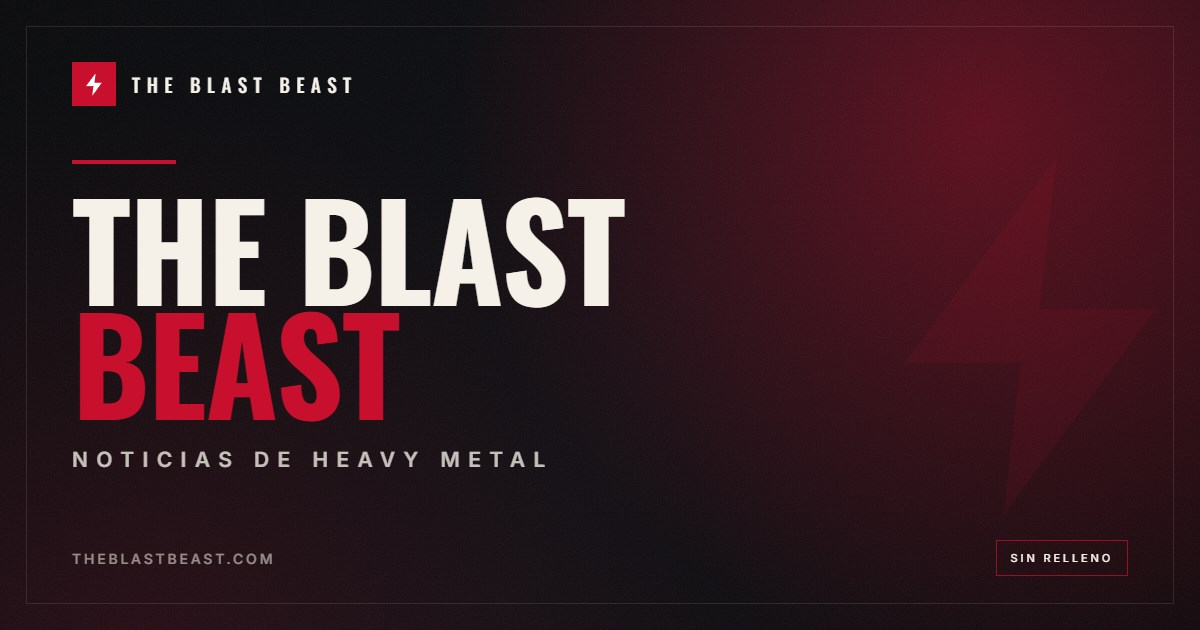
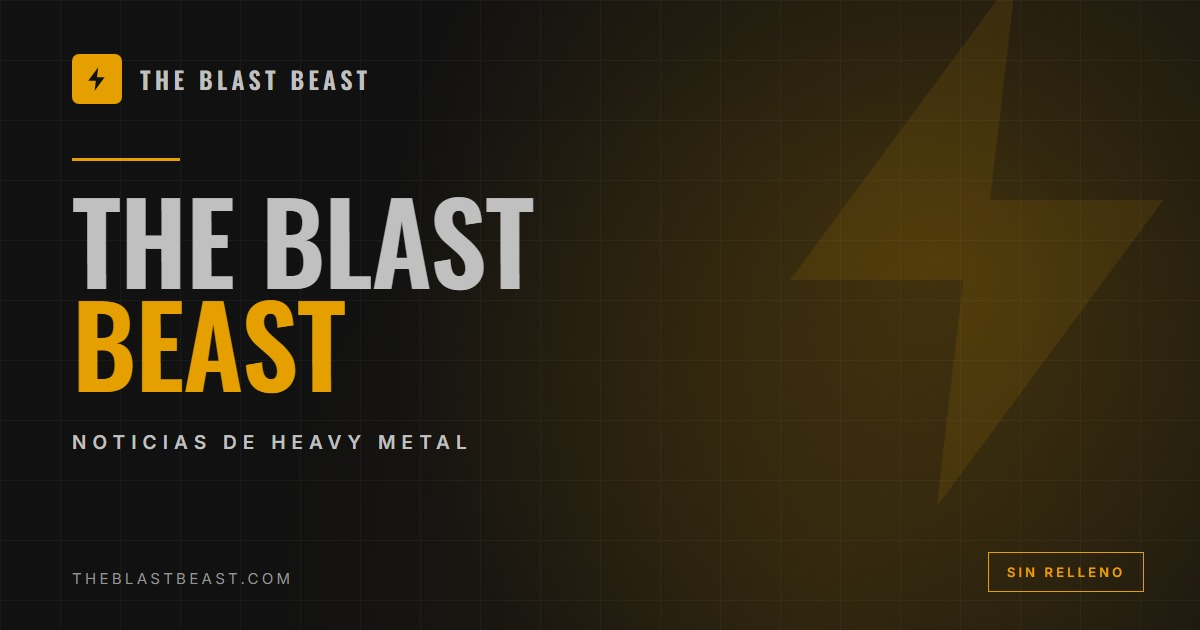
feat(theme): aplica la paleta industrial

diff --git a/src/app/features/radar/radar-page.html b/src/app/features/radar/radar-page.html
@@ -2,11 +2,11 @@
   <section class="relative overflow-hidden border-b border-line">
     <div
       aria-hidden="true"
-      class="pointer-events-none absolute -right-40 -top-40 size-[34rem] rounded-full bg-[radial-gradient(circle_at_center,rgba(200,16,46,0.18),transparent_68%)]"
+      class="pointer-events-none absolute -right-40 -top-40 size-[34rem] rounded-full bg-[radial-gradient(circle_at_center,rgba(229,160,0,0.20),transparent_68%)]"
     ></div>
     <div
       aria-hidden="true"
-      class="pointer-events-none absolute inset-0 opacity-[0.045] [background-image:repeating-linear-gradient(0deg,transparent,transparent_3px,#f4f2ee_4px)]"
+      class="pointer-events-none absolute inset-0 opacity-[0.045] [background-image:repeating-linear-gradient(0deg,transparent,transparent_3px,#c0c0c0_4px)]"
     ></div>
 
     <div class="shell relative py-10 sm:py-14">
@@ -133,7 +133,7 @@
                   (click)="filterGenre(genre.value)"
                 >
                   {{ genre.label }}
-                  <span class="text-muted/70">{{ genre.count }}</span>
+                  <span class="text-muted">{{ genre.count }}</span>
                 </button>
               }
             </div>
@@ -174,7 +174,7 @@
                   (click)="selectType(type.value)"
                 >
                   {{ type.label }}
-                  <span class="text-muted/70">{{ type.count }}</span>
+                  <span class="text-muted">{{ type.count }}</span>
                 </button>
               }
             </div>
@@ -190,7 +190,7 @@
       >
         <div
           aria-hidden="true"
-          class="pointer-events-none absolute -right-24 -top-24 size-64 rounded-full bg-[radial-gradient(circle_at_center,rgba(200,16,46,0.22),transparent_70%)]"
+          class="pointer-events-none absolute -right-24 -top-24 size-64 rounded-full bg-[radial-gradient(circle_at_center,rgba(229,160,0,0.24),transparent_70%)]"
         ></div>
 
         <div class="relative flex flex-col gap-6 sm:flex-row sm:items-start">
@@ -214,7 +214,7 @@
           <div class="min-w-0 flex-1">
             <div class="flex flex-wrap items-center gap-2">
               <span
-                class="rounded-full bg-blood px-2.5 py-1 font-mono text-[9px] uppercase tracking-[0.16em] text-white"
+                class="rounded-full bg-blood px-2.5 py-1 font-mono text-[9px] uppercase tracking-[0.16em] text-ink"
               >
                 Destacado
               </span>
@@ -300,7 +300,7 @@
                 </span>
                 @if (release.genre) {
                   <span
-                    class="font-mono text-[9px] uppercase tracking-[0.14em] text-muted/80"
+                    class="font-mono text-[9px] uppercase tracking-[0.14em] text-muted"
                   >
                     {{ release.genre }}
                   </span>
@@ -333,7 +333,7 @@
 
               @if (release.label) {
                 <p
-                  class="mt-2 font-mono text-[9px] uppercase tracking-[0.14em] text-muted/80"
+                  class="mt-2 font-mono text-[9px] uppercase tracking-[0.14em] text-muted"
                 >
                   {{ release.label }}
                 </p>

diff --git a/src/app/features/not-found/not-found-page.html b/src/app/features/not-found/not-found-page.html
@@ -2,11 +2,11 @@
   <section class="relative overflow-hidden border-b border-line">
     <div
       aria-hidden="true"
-      class="pointer-events-none absolute -left-40 top-1/2 size-[32rem] -translate-y-1/2 rounded-full bg-[radial-gradient(circle_at_center,rgba(200,16,46,0.14),transparent_70%)]"
+      class="pointer-events-none absolute -left-40 top-1/2 size-[32rem] -translate-y-1/2 rounded-full bg-[radial-gradient(circle_at_center,rgba(229,160,0,0.16),transparent_70%)]"
     ></div>
     <div
       aria-hidden="true"
-      class="pointer-events-none absolute inset-0 opacity-[0.04] [background-image:linear-gradient(#f4f2ee_1px,transparent_1px),linear-gradient(90deg,#f4f2ee_1px,transparent_1px)] [background-size:48px_48px]"
+      class="pointer-events-none absolute inset-0 opacity-[0.04] [background-image:linear-gradient(#c0c0c0_1px,transparent_1px),linear-gradient(90deg,#c0c0c0_1px,transparent_1px)] [background-size:48px_48px]"
     ></div>
 
     <div
@@ -53,7 +53,7 @@
       <div class="card relative overflow-hidden !p-6 sm:!p-8">
         <div
           aria-hidden="true"
-          class="pointer-events-none absolute -right-16 -top-16 size-48 rounded-full bg-[radial-gradient(circle_at_center,rgba(200,16,46,0.2),transparent_70%)]"
+          class="pointer-events-none absolute -right-16 -top-16 size-48 rounded-full bg-[radial-gradient(circle_at_center,rgba(229,160,0,0.22),transparent_70%)]"
         ></div>
 
         <div class="relative">
@@ -83,7 +83,7 @@
             />
             <button
               type="submit"
-              class="grid size-11 shrink-0 place-items-center rounded-md bg-blood text-white transition hover:bg-blood-soft"
+              class="grid size-11 shrink-0 place-items-center rounded-md bg-blood text-ink transition hover:brightness-110"
               aria-label="Buscar"
             >
               <svg

diff --git a/src/styles.css b/src/styles.css
@@ -55,15 +55,21 @@
     U+2193, U+2212, U+2215, U+FEFF, U+FFFD;
 }
 
+/*
+ * Paleta industrial.
+ * El texto secundario usa una mezcla 50/50 de medium y silver (#949494)
+ * para mantener el contraste AA tanto sobre el fondo como sobre las
+ * superficies grises.
+ */
 @theme {
-  --color-ink: #07080a;
-  --color-surface: #0e1014;
-  --color-surface-2: #15181e;
-  --color-line: #242a33;
-  --color-bone: #f4f2ee;
-  --color-muted: #98a0ad;
-  --color-blood: #c8102e;
-  --color-blood-soft: #ff2247;
+  --color-ink: #111111;
+  --color-surface: #292929;
+  --color-surface-2: #292929;
+  --color-line: #686868;
+  --color-bone: #c0c0c0;
+  --color-muted: #949494;
+  --color-blood: #e5a000;
+  --color-blood-soft: #e5a000;
 
   --font-display: "Oswald", "Oswald Fallback", ui-sans-serif, system-ui, sans-serif;
   --font-body: "Inter", "Inter Fallback", ui-sans-serif, system-ui, sans-serif;
@@ -96,7 +102,7 @@
   }
 
   ::selection {
-    @apply bg-blood text-white;
+    @apply bg-blood text-ink;
   }
 
   :focus-visible {
@@ -119,7 +125,7 @@
 
   .btn-primary {
     @apply inline-flex items-center gap-2 rounded-md bg-blood px-5 py-3 font-display text-sm
-      uppercase tracking-wider text-white transition hover:bg-blood-soft;
+      uppercase tracking-wider text-ink transition hover:brightness-110;
   }
 
   .btn-ghost {

diff --git a/src/app/features/agenda/agenda-calendar.html b/src/app/features/agenda/agenda-calendar.html
@@ -52,7 +52,7 @@
       @if (cell.date) {
         <button
           type="button"
-          class="relative flex h-10 flex-col items-center justify-center rounded-md border border-transparent text-xs text-bone transition hover:border-line hover:bg-surface-2 data-[selected=true]:border-blood data-[selected=true]:bg-blood data-[selected=true]:text-white data-[today=true]:ring-1 data-[today=true]:ring-inset data-[today=true]:ring-blood-soft/60"
+          class="relative flex h-10 flex-col items-center justify-center rounded-md border border-transparent text-xs text-bone transition hover:border-line hover:bg-surface-2 data-[selected=true]:border-blood data-[selected=true]:bg-blood data-[selected=true]:text-ink data-[today=true]:ring-1 data-[today=true]:ring-inset data-[today=true]:ring-blood-soft/60"
           [attr.data-selected]="cell.isSelected ? 'true' : null"
           [attr.data-today]="cell.isToday ? 'true' : null"
           [attr.aria-pressed]="cell.isSelected"

diff --git a/src/app/features/admin/media/admin-media-page.html b/src/app/features/admin/media/admin-media-page.html
@@ -50,7 +50,7 @@
           id="media-file"
           type="file"
           accept="image/jpeg,image/png,image/webp,image/gif"
-          class="mt-3 block w-full py-2 text-xs text-muted file:mr-3 file:rounded-md file:border-0 file:bg-blood file:px-4 file:py-2.5 file:font-display file:text-[10px] file:uppercase file:tracking-wider file:text-white hover:file:bg-blood-soft"
+          class="mt-3 block w-full py-2 text-xs text-muted file:mr-3 file:rounded-md file:border-0 file:bg-blood file:px-4 file:py-2.5 file:font-display file:text-[10px] file:uppercase file:tracking-wider file:text-ink hover:file:brightness-110"
           (change)="onFile($event)"
         />
       </div>

diff --git a/src/app/layout/header/header.html b/src/app/layout/header/header.html
@@ -1,6 +1,6 @@
 <a
   href="#contenido"
-  class="sr-only focus:not-sr-only focus:absolute focus:left-4 focus:top-3 focus:z-50 focus:rounded focus:bg-blood focus:px-3 focus:py-2 focus:text-sm focus:text-white"
+  class="sr-only focus:not-sr-only focus:absolute focus:left-4 focus:top-3 focus:z-50 focus:rounded focus:bg-blood focus:px-3 focus:py-2 focus:text-sm focus:text-ink"
 >
   Saltar al contenido
 </a>
@@ -20,7 +20,7 @@
       >
         <svg
           viewBox="0 0 24 24"
-          class="size-5 fill-white sm:size-6"
+          class="size-5 fill-ink sm:size-6"
           aria-hidden="true"
         >
           <path d="M13 2 4.5 13.5H11l-1 8.5 8.5-11.5H12l1-8.5Z" />

diff --git a/src/app/features/articles/article-detail-page.html b/src/app/features/articles/article-detail-page.html
@@ -9,7 +9,7 @@
     <section class="relative overflow-hidden border-b border-line">
       <div
         aria-hidden="true"
-        class="pointer-events-none absolute -top-32 left-1/2 size-[30rem] -translate-x-1/2 rounded-full bg-[radial-gradient(circle_at_center,rgba(200,16,46,0.14),transparent_70%)]"
+        class="pointer-events-none absolute -top-32 left-1/2 size-[30rem] -translate-x-1/2 rounded-full bg-[radial-gradient(circle_at_center,rgba(229,160,0,0.16),transparent_70%)]"
       ></div>
 
       <div class="shell relative py-10 sm:py-14">

diff --git a/src/app/layout/footer/footer.html b/src/app/layout/footer/footer.html
@@ -3,7 +3,7 @@
     <div class="flex flex-col gap-5 sm:flex-row sm:items-center sm:justify-between">
       <a routerLink="/" class="flex items-center gap-3" aria-label="The Blast Beast, inicio">
         <span class="grid size-7 place-items-center rounded bg-blood">
-          <svg viewBox="0 0 24 24" class="size-4 fill-white" aria-hidden="true">
+          <svg viewBox="0 0 24 24" class="size-4 fill-ink" aria-hidden="true">
             <path d="M13 2 4.5 13.5H11l-1 8.5 8.5-11.5H12l1-8.5Z" />
           </svg>
         </span>

diff --git a/src/app/features/home/home-page.html b/src/app/features/home/home-page.html
@@ -6,7 +6,7 @@
   <section class="relative overflow-hidden border-b border-line">
     <div
       aria-hidden="true"
-      class="pointer-events-none absolute -top-40 right-0 size-[34rem] rounded-full bg-[radial-gradient(circle_at_center,rgba(200,16,46,0.14),transparent_70%)]"
+      class="pointer-events-none absolute -top-40 right-0 size-[34rem] rounded-full bg-[radial-gradient(circle_at_center,rgba(229,160,0,0.16),transparent_70%)]"
     ></div>
 
     <div class="shell relative py-12 sm:py-20">

diff --git a/src/app/features/static/about-page.html b/src/app/features/static/about-page.html
@@ -2,7 +2,7 @@
   <section class="relative overflow-hidden border-b border-line">
     <div
       aria-hidden="true"
-      class="pointer-events-none absolute -top-40 right-0 size-[32rem] rounded-full bg-[radial-gradient(circle_at_center,rgba(200,16,46,0.14),transparent_70%)]"
+      class="pointer-events-none absolute -top-40 right-0 size-[32rem] rounded-full bg-[radial-gradient(circle_at_center,rgba(229,160,0,0.16),transparent_70%)]"
     ></div>
 
     <div class="shell relative py-12 sm:py-16">

diff --git a/src/app/features/static/contact-page.html b/src/app/features/static/contact-page.html
@@ -2,7 +2,7 @@
   <section class="relative overflow-hidden border-b border-line">
     <div
       aria-hidden="true"
-      class="pointer-events-none absolute -top-40 right-0 size-[32rem] rounded-full bg-[radial-gradient(circle_at_center,rgba(200,16,46,0.14),transparent_70%)]"
+      class="pointer-events-none absolute -top-40 right-0 size-[32rem] rounded-full bg-[radial-gradient(circle_at_center,rgba(229,160,0,0.16),transparent_70%)]"
     ></div>
 
     <div class="shell relative py-12 sm:py-16">

diff --git a/src/app/features/static/legal-page.html b/src/app/features/static/legal-page.html
@@ -2,7 +2,7 @@
   <section class="relative overflow-hidden border-b border-line">
     <div
       aria-hidden="true"
-      class="pointer-events-none absolute -top-40 right-0 size-[32rem] rounded-full bg-[radial-gradient(circle_at_center,rgba(200,16,46,0.14),transparent_70%)]"
+      class="pointer-events-none absolute -top-40 right-0 size-[32rem] rounded-full bg-[radial-gradient(circle_at_center,rgba(229,160,0,0.16),transparent_70%)]"
     ></div>
 
     <div class="shell relative py-12 sm:py-16">
